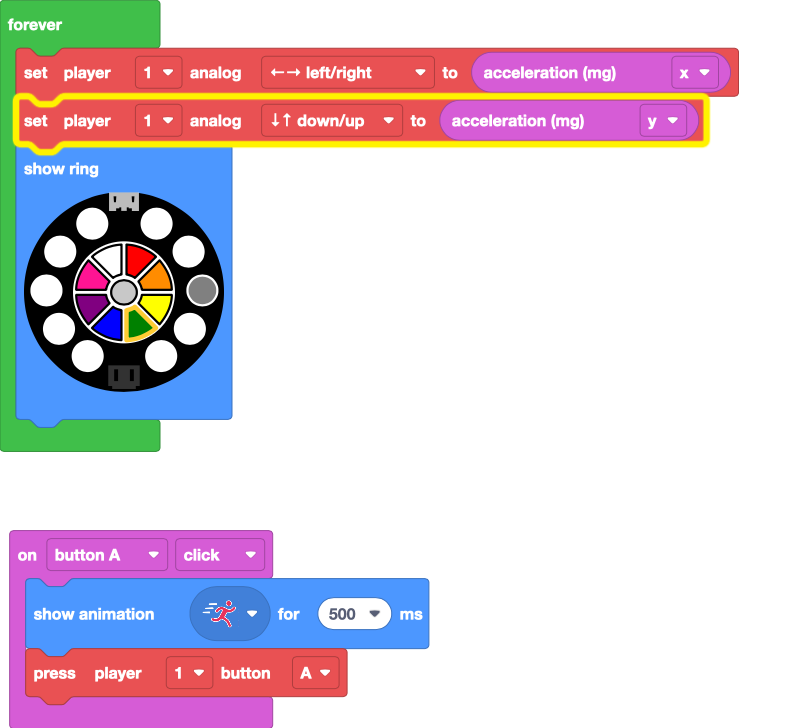
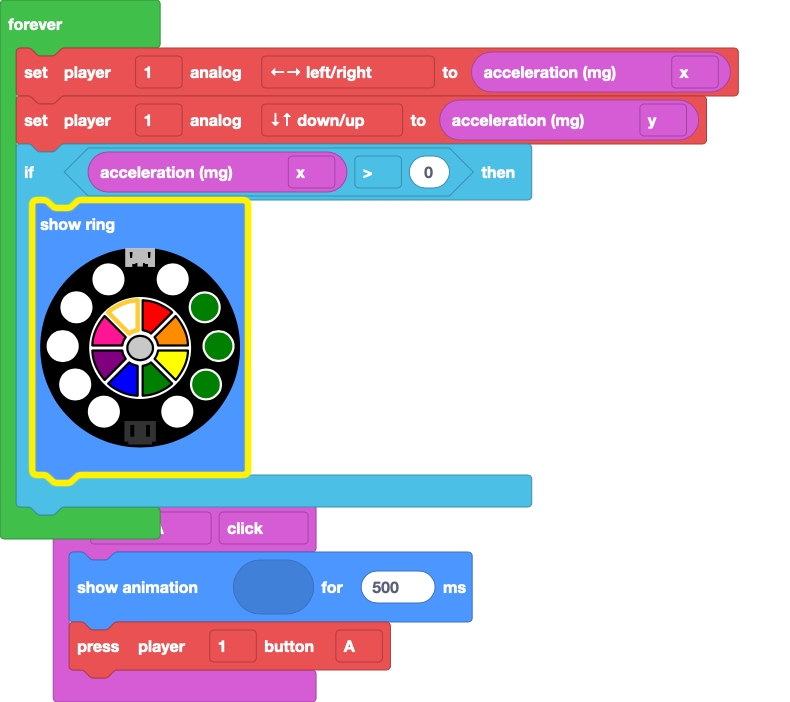
Update main.blocks, main.ts

diff --git a/main.ts b/main.ts
@@ -5,7 +5,9 @@ input.buttonA.onEvent(ButtonEvent.Click, function () {
 forever(function () {
     makerController.player1.setAnalog(ArcadeAnalogButton.LeftRight, input.acceleration(Dimension.X))
     makerController.player1.setAnalog(ArcadeAnalogButton.DownUp, input.acceleration(Dimension.Y))
-    light.showRing(
-    `white white white white white white white black white white`
-    )
+    if (input.acceleration(Dimension.X) > 0) {
+        light.showRing(
+        `white white white white white white green green green white`
+        )
+    }
 })
